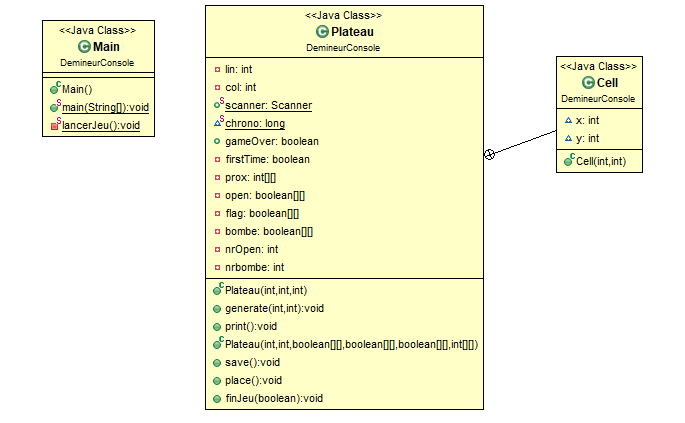
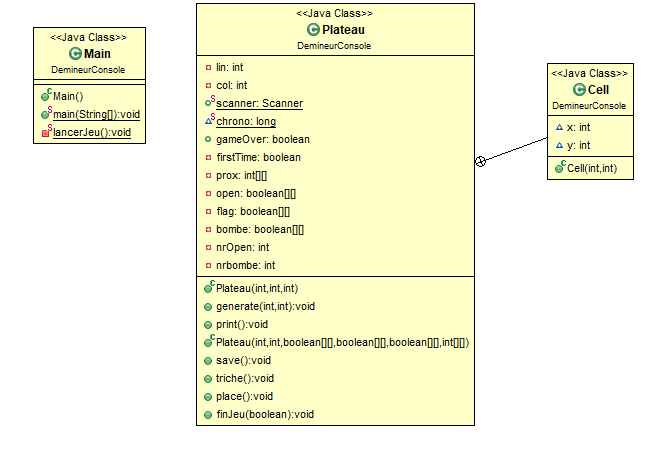
Ajout de la methode triche

Changed region(s): [[0.2727, 0.0, 0.7576, 0.9835], [0.0303, 0.0307, 0.2424, 0.3381], [0.7576, 0.1229, 0.9697, 0.4303]]

diff --git a/Documentation/index-files/index-7.html b/Documentation/index-files/index-7.html
@@ -3,7 +3,7 @@
 <html lang="fr">
 <head>
 <!-- Generated by javadoc (9) on Fri Jan 11 00:18:59 CET 2019 -->
-<title>D-Index</title>
+<title>T-Index</title>
 <meta http-equiv="Content-Type" content="text/html; charset=utf-8">
 <meta name="date" content="2019-01-11">
 <link rel="stylesheet" type="text/css" href="../stylesheet.css" title="Style">
@@ -21,7 +21,7 @@
 <script type="text/javascript"><!--
     try {
         if (location.href.indexOf('is-external=true') == -1) {
-            parent.document.title="D-Index";
+            parent.document.title="T-Index";
         }
     }
     catch(err) {
@@ -52,12 +52,12 @@ var pathtoroot = "../";loadScripts(document, 'script');</script>
 </div>
 <div class="subNav">
 <ul class="navList">
-<li><a href="index-0.html">Prev Letter</a></li>
-<li><a href="index-1.html">Next Letter</a></li>
+<li><a href="index-6.html">Prev Letter</a></li>
+<li><a href="index-7.html">Next Letter</a></li>
 </ul>
 <ul class="navList">
-<li><a href="../index.html?index-files/index-1.html" target="_top">Frames</a></li>
-<li><a href="index-1.html" target="_top">No&nbsp;Frames</a></li>
+<li><a href="../index.html?index-files/index-7.html" target="_top">Frames</a></li>
+<li><a href="index-7.html" target="_top">No&nbsp;Frames</a></li>
 </ul>
 <ul class="navList" id="allclasses_navbar_top">
 <li><a href="../allclasses-noframe.html">All&nbsp;Classes</a></li>
@@ -93,13 +93,16 @@ var pathtoroot = "../";loadScripts(document, 'script');</script>
 $('.navPadding').css('padding-top', $('.fixedNav').css("height"));
 //-->
 </script>
-<div class="contentContainer"><a href="index-1.html">D</a>&nbsp;<a href="index-2.html">F</a>&nbsp;<a href="index-3.html">G</a>&nbsp;<a href="index-4.html">M</a>&nbsp;<a href="index-5.html">P</a>&nbsp;<a href="index-6.html">S</a>&nbsp;<a href="index-7.html">T</a>&nbsp;<a name="I:D">
+<div class="contentContainer"><a href="index-1.html">D</a>&nbsp;<a href="index-2.html">F</a>&nbsp;<a href="index-3.html">G</a>&nbsp;<a href="index-4.html">M</a>&nbsp;<a href="index-5.html">P</a>&nbsp;<a href="index-6.html">S</a>&nbsp;<a href="index-7.html">T</a>&nbsp;<a name="I:T">
 <!--   -->
 </a>
-<h2 class="title">D</h2>
+<h2 class="title">T</h2>
 <dl>
-<dt><a href="../DemineurConsole/package-summary.html">DemineurConsole</a> - package DemineurConsole</dt>
-<dd>&nbsp;</dd>
+<dt><span class="memberNameLink"><a href="../DemineurConsole/Plateau.html#triche--">triche()</a></span> - Method in class DemineurConsole.<a href="../DemineurConsole/Plateau.html" title="class in DemineurConsole">Plateau</a></dt>
+<dd>
+<div class="block">Affiche les bombes de la grille
+ Si true alors une bombe se cache derriere</div>
+</dd>
 </dl>
 <a href="index-1.html">D</a>&nbsp;<a href="index-2.html">F</a>&nbsp;<a href="index-3.html">G</a>&nbsp;<a href="index-4.html">M</a>&nbsp;<a href="index-5.html">P</a>&nbsp;<a href="index-6.html">S</a>&nbsp;<a href="index-7.html">T</a>&nbsp;</div>
 <!-- ======= START OF BOTTOM NAVBAR ====== -->
@@ -122,12 +125,12 @@ $('.navPadding').css('padding-top', $('.fixedNav').css("height"));
 </div>
 <div class="subNav">
 <ul class="navList">
-<li><a href="index-0.html">Prev Letter</a></li>
-<li><a href="index-1.html">Next Letter</a></li>
+<li><a href="index-6.html">Prev Letter</a></li>
+<li><a href="index-7.html">Next Letter</a></li>
 </ul>
 <ul class="navList">
-<li><a href="../index.html?index-files/index-1.html" target="_top">Frames</a></li>
-<li><a href="index-1.html" target="_top">No&nbsp;Frames</a></li>
+<li><a href="../index.html?index-files/index-7.html" target="_top">Frames</a></li>
+<li><a href="index-7.html" target="_top">No&nbsp;Frames</a></li>
 </ul>
 <ul class="navList" id="allclasses_navbar_bottom">
 <li><a href="../allclasses-noframe.html">All&nbsp;Classes</a></li>

diff --git a/Documentation/index-files/index-6.html b/Documentation/index-files/index-6.html
@@ -2,10 +2,10 @@
 <!-- NewPage -->
 <html lang="fr">
 <head>
-<!-- Generated by javadoc (9) on Thu Jan 10 22:59:36 CET 2019 -->
+<!-- Generated by javadoc (9) on Fri Jan 11 00:18:59 CET 2019 -->
 <title>S-Index</title>
 <meta http-equiv="Content-Type" content="text/html; charset=utf-8">
-<meta name="date" content="2019-01-10">
+<meta name="date" content="2019-01-11">
 <link rel="stylesheet" type="text/css" href="../stylesheet.css" title="Style">
 <link rel="stylesheet" type="text/css" href="../jquery/jquery-ui.css" title="Style">
 <script type="text/javascript" src="../script.js"></script>
@@ -93,7 +93,7 @@ var pathtoroot = "../";loadScripts(document, 'script');</script>
 $('.navPadding').css('padding-top', $('.fixedNav').css("height"));
 //-->
 </script>
-<div class="contentContainer"><a href="index-1.html">D</a>&nbsp;<a href="index-2.html">F</a>&nbsp;<a href="index-3.html">G</a>&nbsp;<a href="index-4.html">M</a>&nbsp;<a href="index-5.html">P</a>&nbsp;<a href="index-6.html">S</a>&nbsp;<a name="I:S">
+<div class="contentContainer"><a href="index-1.html">D</a>&nbsp;<a href="index-2.html">F</a>&nbsp;<a href="index-3.html">G</a>&nbsp;<a href="index-4.html">M</a>&nbsp;<a href="index-5.html">P</a>&nbsp;<a href="index-6.html">S</a>&nbsp;<a href="index-7.html">T</a>&nbsp;<a name="I:S">
 <!--   -->
 </a>
 <h2 class="title">S</h2>
@@ -107,7 +107,7 @@ $('.navPadding').css('padding-top', $('.fixedNav').css("height"));
 <dt><span class="memberNameLink"><a href="../DemineurConsole/Plateau.html#scanner">scanner</a></span> - Static variable in class DemineurConsole.<a href="../DemineurConsole/Plateau.html" title="class in DemineurConsole">Plateau</a></dt>
 <dd>&nbsp;</dd>
 </dl>
-<a href="index-1.html">D</a>&nbsp;<a href="index-2.html">F</a>&nbsp;<a href="index-3.html">G</a>&nbsp;<a href="index-4.html">M</a>&nbsp;<a href="index-5.html">P</a>&nbsp;<a href="index-6.html">S</a>&nbsp;</div>
+<a href="index-1.html">D</a>&nbsp;<a href="index-2.html">F</a>&nbsp;<a href="index-3.html">G</a>&nbsp;<a href="index-4.html">M</a>&nbsp;<a href="index-5.html">P</a>&nbsp;<a href="index-6.html">S</a>&nbsp;<a href="index-7.html">T</a>&nbsp;</div>
 <!-- ======= START OF BOTTOM NAVBAR ====== -->
 <div class="bottomNav"><a name="navbar.bottom">
 <!--   -->

diff --git a/Documentation/index-files/index-4.html b/Documentation/index-files/index-4.html
@@ -2,10 +2,10 @@
 <!-- NewPage -->
 <html lang="fr">
 <head>
-<!-- Generated by javadoc (9) on Thu Jan 10 22:59:36 CET 2019 -->
+<!-- Generated by javadoc (9) on Fri Jan 11 00:18:59 CET 2019 -->
 <title>M-Index</title>
 <meta http-equiv="Content-Type" content="text/html; charset=utf-8">
-<meta name="date" content="2019-01-10">
+<meta name="date" content="2019-01-11">
 <link rel="stylesheet" type="text/css" href="../stylesheet.css" title="Style">
 <link rel="stylesheet" type="text/css" href="../jquery/jquery-ui.css" title="Style">
 <script type="text/javascript" src="../script.js"></script>
@@ -93,7 +93,7 @@ var pathtoroot = "../";loadScripts(document, 'script');</script>
 $('.navPadding').css('padding-top', $('.fixedNav').css("height"));
 //-->
 </script>
-<div class="contentContainer"><a href="index-1.html">D</a>&nbsp;<a href="index-2.html">F</a>&nbsp;<a href="index-3.html">G</a>&nbsp;<a href="index-4.html">M</a>&nbsp;<a href="index-5.html">P</a>&nbsp;<a href="index-6.html">S</a>&nbsp;<a name="I:M">
+<div class="contentContainer"><a href="index-1.html">D</a>&nbsp;<a href="index-2.html">F</a>&nbsp;<a href="index-3.html">G</a>&nbsp;<a href="index-4.html">M</a>&nbsp;<a href="index-5.html">P</a>&nbsp;<a href="index-6.html">S</a>&nbsp;<a href="index-7.html">T</a>&nbsp;<a name="I:M">
 <!--   -->
 </a>
 <h2 class="title">M</h2>
@@ -107,7 +107,7 @@ $('.navPadding').css('padding-top', $('.fixedNav').css("height"));
 <dt><span class="memberNameLink"><a href="../DemineurConsole/Main.html#Main--">Main()</a></span> - Constructor for class DemineurConsole.<a href="../DemineurConsole/Main.html" title="class in DemineurConsole">Main</a></dt>
 <dd>&nbsp;</dd>
 </dl>
-<a href="index-1.html">D</a>&nbsp;<a href="index-2.html">F</a>&nbsp;<a href="index-3.html">G</a>&nbsp;<a href="index-4.html">M</a>&nbsp;<a href="index-5.html">P</a>&nbsp;<a href="index-6.html">S</a>&nbsp;</div>
+<a href="index-1.html">D</a>&nbsp;<a href="index-2.html">F</a>&nbsp;<a href="index-3.html">G</a>&nbsp;<a href="index-4.html">M</a>&nbsp;<a href="index-5.html">P</a>&nbsp;<a href="index-6.html">S</a>&nbsp;<a href="index-7.html">T</a>&nbsp;</div>
 <!-- ======= START OF BOTTOM NAVBAR ====== -->
 <div class="bottomNav"><a name="navbar.bottom">
 <!--   -->

diff --git a/Documentation/index-files/index-3.html b/Documentation/index-files/index-3.html
@@ -2,10 +2,10 @@
 <!-- NewPage -->
 <html lang="fr">
 <head>
-<!-- Generated by javadoc (9) on Thu Jan 10 22:59:36 CET 2019 -->
+<!-- Generated by javadoc (9) on Fri Jan 11 00:18:59 CET 2019 -->
 <title>G-Index</title>
 <meta http-equiv="Content-Type" content="text/html; charset=utf-8">
-<meta name="date" content="2019-01-10">
+<meta name="date" content="2019-01-11">
 <link rel="stylesheet" type="text/css" href="../stylesheet.css" title="Style">
 <link rel="stylesheet" type="text/css" href="../jquery/jquery-ui.css" title="Style">
 <script type="text/javascript" src="../script.js"></script>
@@ -93,7 +93,7 @@ var pathtoroot = "../";loadScripts(document, 'script');</script>
 $('.navPadding').css('padding-top', $('.fixedNav').css("height"));
 //-->
 </script>
-<div class="contentContainer"><a href="index-1.html">D</a>&nbsp;<a href="index-2.html">F</a>&nbsp;<a href="index-3.html">G</a>&nbsp;<a href="index-4.html">M</a>&nbsp;<a href="index-5.html">P</a>&nbsp;<a href="index-6.html">S</a>&nbsp;<a name="I:G">
+<div class="contentContainer"><a href="index-1.html">D</a>&nbsp;<a href="index-2.html">F</a>&nbsp;<a href="index-3.html">G</a>&nbsp;<a href="index-4.html">M</a>&nbsp;<a href="index-5.html">P</a>&nbsp;<a href="index-6.html">S</a>&nbsp;<a href="index-7.html">T</a>&nbsp;<a name="I:G">
 <!--   -->
 </a>
 <h2 class="title">G</h2>
@@ -106,7 +106,7 @@ $('.navPadding').css('padding-top', $('.fixedNav').css("height"));
  Ne pas mettre de bombes dans la cellule (x,y)</div>
 </dd>
 </dl>
-<a href="index-1.html">D</a>&nbsp;<a href="index-2.html">F</a>&nbsp;<a href="index-3.html">G</a>&nbsp;<a href="index-4.html">M</a>&nbsp;<a href="index-5.html">P</a>&nbsp;<a href="index-6.html">S</a>&nbsp;</div>
+<a href="index-1.html">D</a>&nbsp;<a href="index-2.html">F</a>&nbsp;<a href="index-3.html">G</a>&nbsp;<a href="index-4.html">M</a>&nbsp;<a href="index-5.html">P</a>&nbsp;<a href="index-6.html">S</a>&nbsp;<a href="index-7.html">T</a>&nbsp;</div>
 <!-- ======= START OF BOTTOM NAVBAR ====== -->
 <div class="bottomNav"><a name="navbar.bottom">
 <!--   -->

diff --git a/Documentation/member-search-index.js b/Documentation/member-search-index.js
@@ -1,1 +1,1 @@
-memberSearchIndex = [{"p":"DemineurConsole","c":"Plateau","l":"finJeu(boolean)"},{"p":"DemineurConsole","c":"Plateau","l":"gameOver"},{"p":"DemineurConsole","c":"Plateau","l":"generate(int, int)"},{"p":"DemineurConsole","c":"Main","l":"main(String[])","url":"main-java.lang.String:A-"},{"p":"DemineurConsole","c":"Main","l":"Main()"},{"p":"DemineurConsole","c":"Plateau","l":"place()"},{"p":"DemineurConsole","c":"Plateau","l":"Plateau(int, int, boolean[][], boolean[][], boolean[][], int[][])"},{"p":"DemineurConsole","c":"Plateau","l":"Plateau(int, int, int)"},{"p":"DemineurConsole","c":"Plateau","l":"print()"},{"p":"DemineurConsole","c":"Plateau","l":"save()"},{"p":"DemineurConsole","c":"Plateau","l":"scanner"}]
+memberSearchIndex = [{"p":"DemineurConsole","c":"Plateau","l":"finJeu(boolean)"},{"p":"DemineurConsole","c":"Plateau","l":"gameOver"},{"p":"DemineurConsole","c":"Plateau","l":"generate(int, int)"},{"p":"DemineurConsole","c":"Main","l":"main(String[])","url":"main-java.lang.String:A-"},{"p":"DemineurConsole","c":"Main","l":"Main()"},{"p":"DemineurConsole","c":"Plateau","l":"place()"},{"p":"DemineurConsole","c":"Plateau","l":"Plateau(int, int, boolean[][], boolean[][], boolean[][], int[][])"},{"p":"DemineurConsole","c":"Plateau","l":"Plateau(int, int, int)"},{"p":"DemineurConsole","c":"Plateau","l":"print()"},{"p":"DemineurConsole","c":"Plateau","l":"save()"},{"p":"DemineurConsole","c":"Plateau","l":"scanner"},{"p":"DemineurConsole","c":"Plateau","l":"triche()"}]

diff --git a/Documentation/DemineurConsole/class-use/Plateau.html b/Documentation/DemineurConsole/class-use/Plateau.html
@@ -2,10 +2,10 @@
 <!-- NewPage -->
 <html lang="fr">
 <head>
-<!-- Generated by javadoc (9) on Thu Jan 10 22:59:36 CET 2019 -->
+<!-- Generated by javadoc (9) on Fri Jan 11 00:18:58 CET 2019 -->
 <title>Uses of Class DemineurConsole.Plateau</title>
 <meta http-equiv="Content-Type" content="text/html; charset=utf-8">
-<meta name="date" content="2019-01-10">
+<meta name="date" content="2019-01-11">
 <link rel="stylesheet" type="text/css" href="../../stylesheet.css" title="Style">
 <link rel="stylesheet" type="text/css" href="../../jquery/jquery-ui.css" title="Style">
 <script type="text/javascript" src="../../script.js"></script>

diff --git a/Documentation/DemineurConsole/class-use/Main.html b/Documentation/DemineurConsole/class-use/Main.html
@@ -2,10 +2,10 @@
 <!-- NewPage -->
 <html lang="fr">
 <head>
-<!-- Generated by javadoc (9) on Thu Jan 10 22:59:36 CET 2019 -->
+<!-- Generated by javadoc (9) on Fri Jan 11 00:18:58 CET 2019 -->
 <title>Uses of Class DemineurConsole.Main</title>
 <meta http-equiv="Content-Type" content="text/html; charset=utf-8">
-<meta name="date" content="2019-01-10">
+<meta name="date" content="2019-01-11">
 <link rel="stylesheet" type="text/css" href="../../stylesheet.css" title="Style">
 <link rel="stylesheet" type="text/css" href="../../jquery/jquery-ui.css" title="Style">
 <script type="text/javascript" src="../../script.js"></script>

diff --git a/Documentation/DemineurConsole/package-tree.html b/Documentation/DemineurConsole/package-tree.html
@@ -2,10 +2,10 @@
 <!-- NewPage -->
 <html lang="fr">
 <head>
-<!-- Generated by javadoc (9) on Thu Jan 10 22:59:36 CET 2019 -->
+<!-- Generated by javadoc (9) on Fri Jan 11 00:18:58 CET 2019 -->
 <title>DemineurConsole Class Hierarchy</title>
 <meta http-equiv="Content-Type" content="text/html; charset=utf-8">
-<meta name="date" content="2019-01-10">
+<meta name="date" content="2019-01-11">
 <link rel="stylesheet" type="text/css" href="../stylesheet.css" title="Style">
 <link rel="stylesheet" type="text/css" href="../jquery/jquery-ui.css" title="Style">
 <script type="text/javascript" src="../script.js"></script>

diff --git a/Documentation/DemineurConsole/package-use.html b/Documentation/DemineurConsole/package-use.html
@@ -2,10 +2,10 @@
 <!-- NewPage -->
 <html lang="fr">
 <head>
-<!-- Generated by javadoc (9) on Thu Jan 10 22:59:36 CET 2019 -->
+<!-- Generated by javadoc (9) on Fri Jan 11 00:18:58 CET 2019 -->
 <title>Uses of Package DemineurConsole</title>
 <meta http-equiv="Content-Type" content="text/html; charset=utf-8">
-<meta name="date" content="2019-01-10">
+<meta name="date" content="2019-01-11">
 <link rel="stylesheet" type="text/css" href="../stylesheet.css" title="Style">
 <link rel="stylesheet" type="text/css" href="../jquery/jquery-ui.css" title="Style">
 <script type="text/javascript" src="../script.js"></script>
